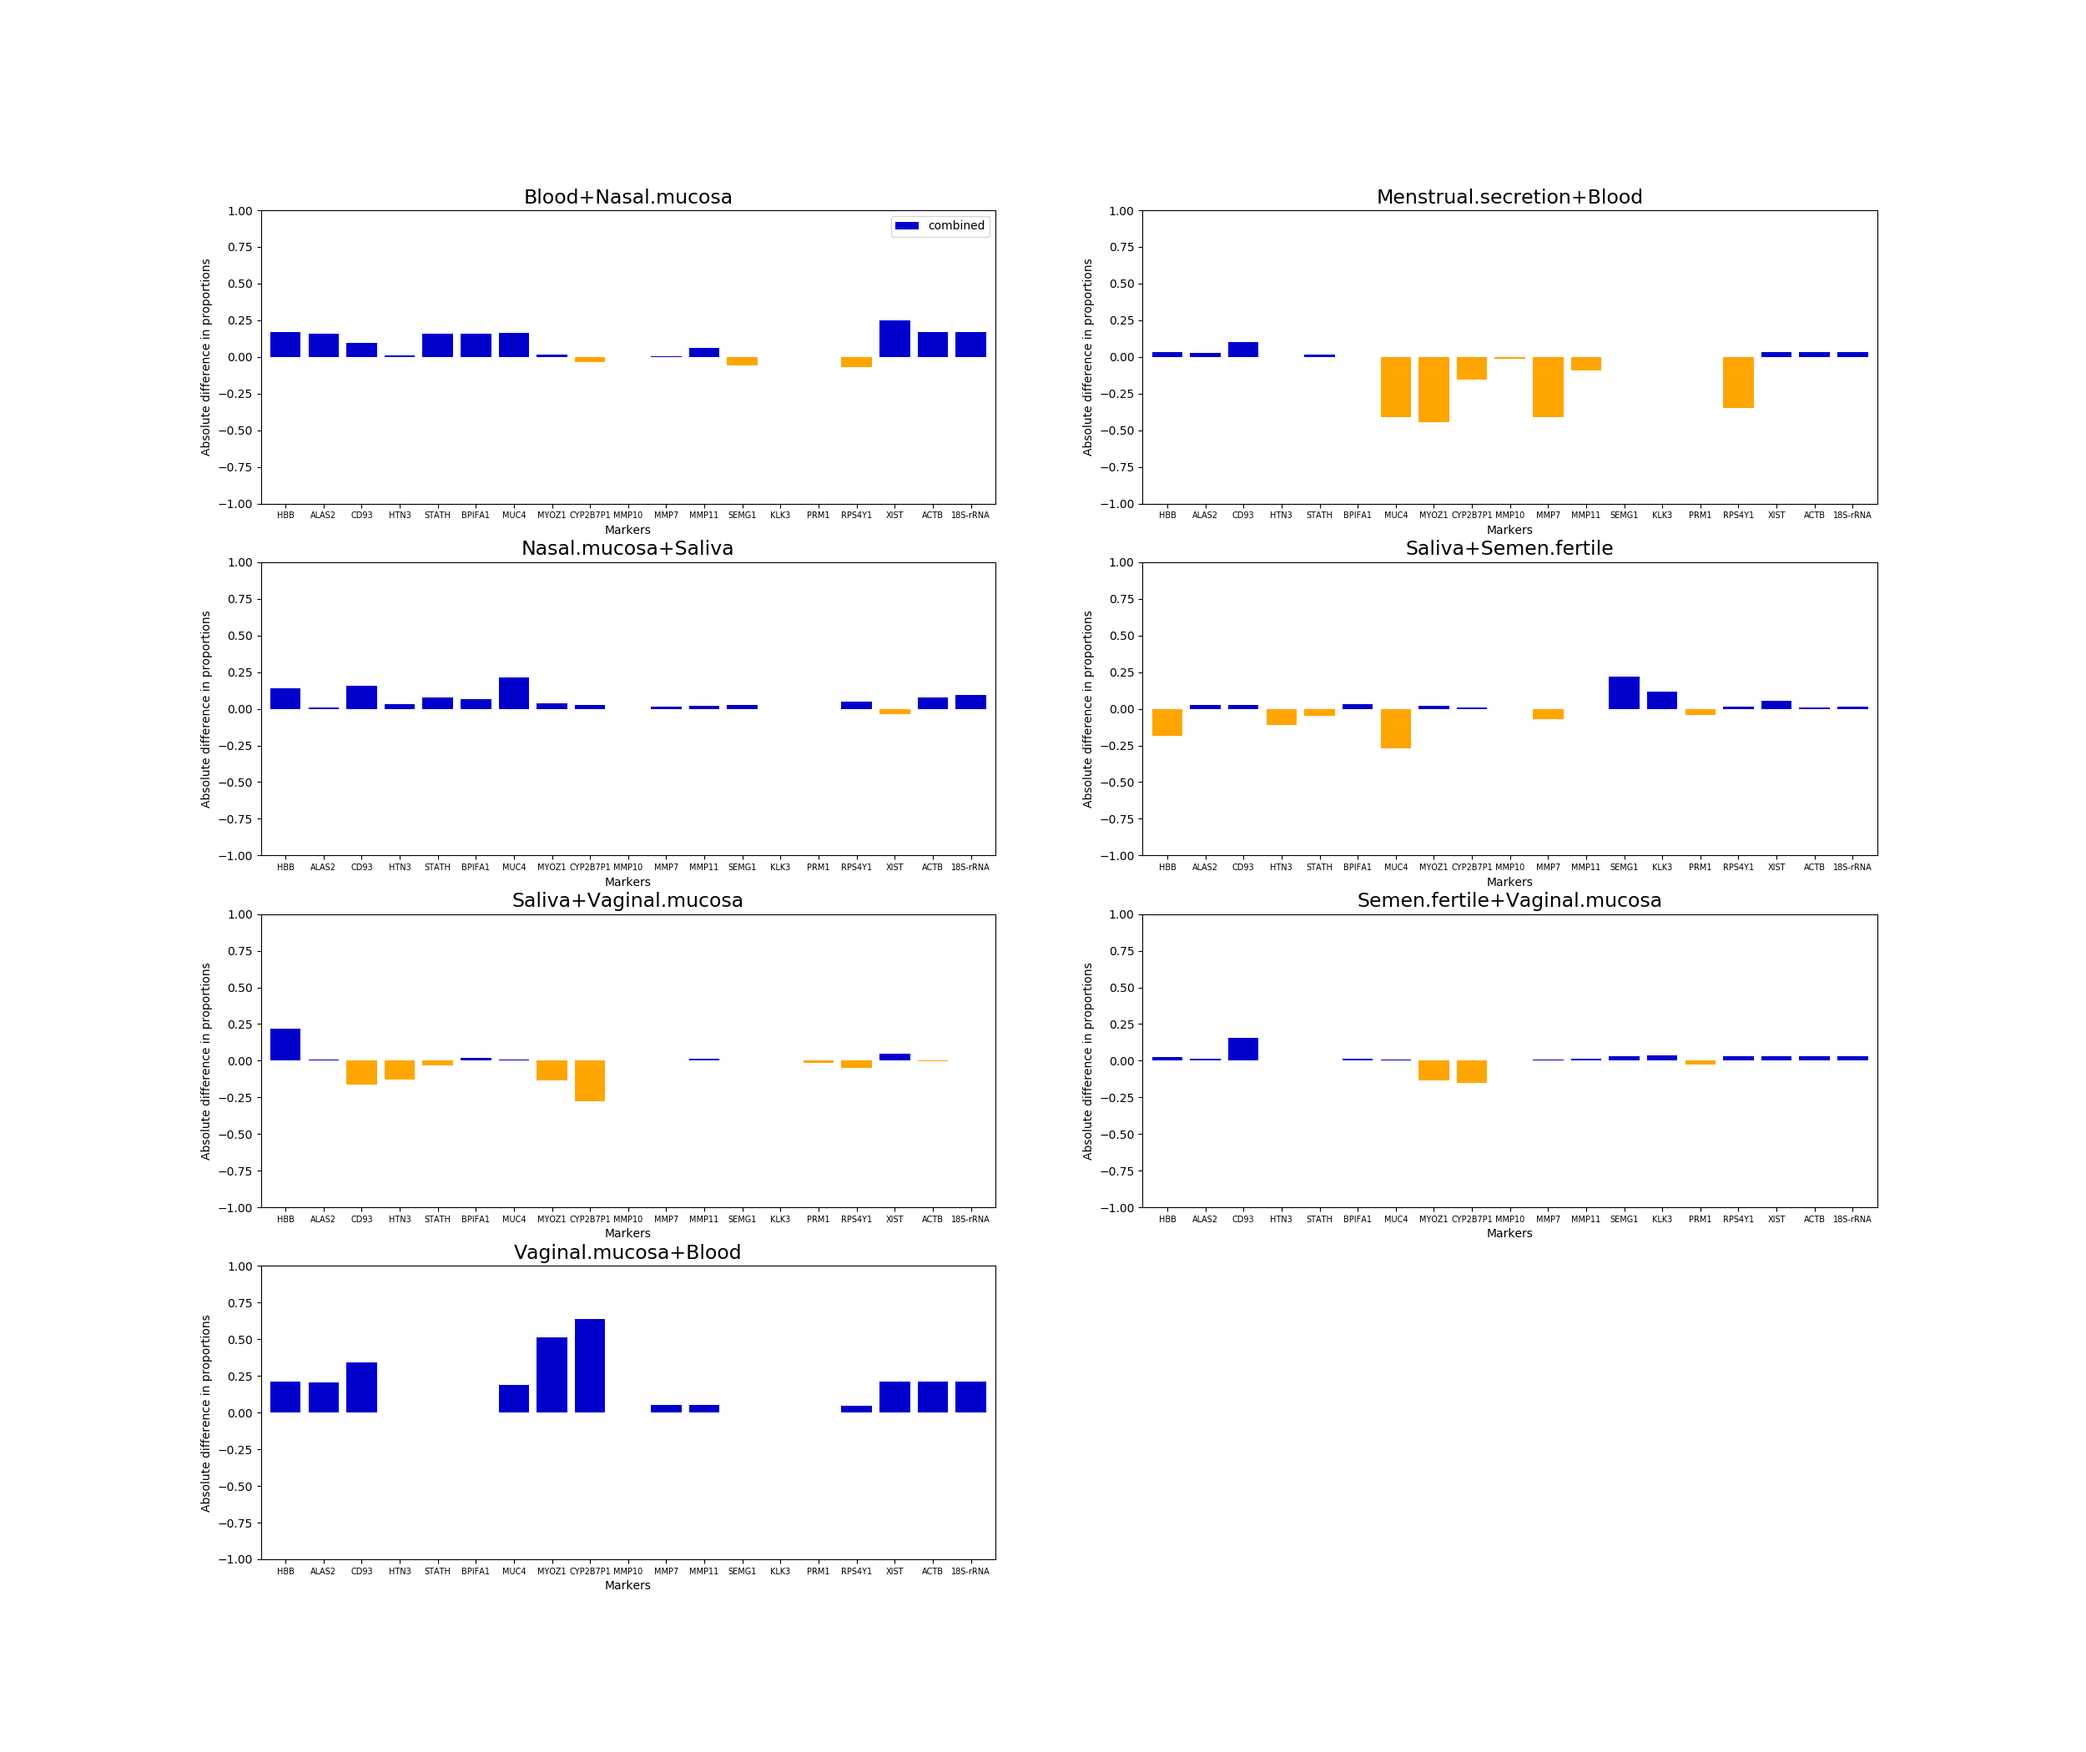
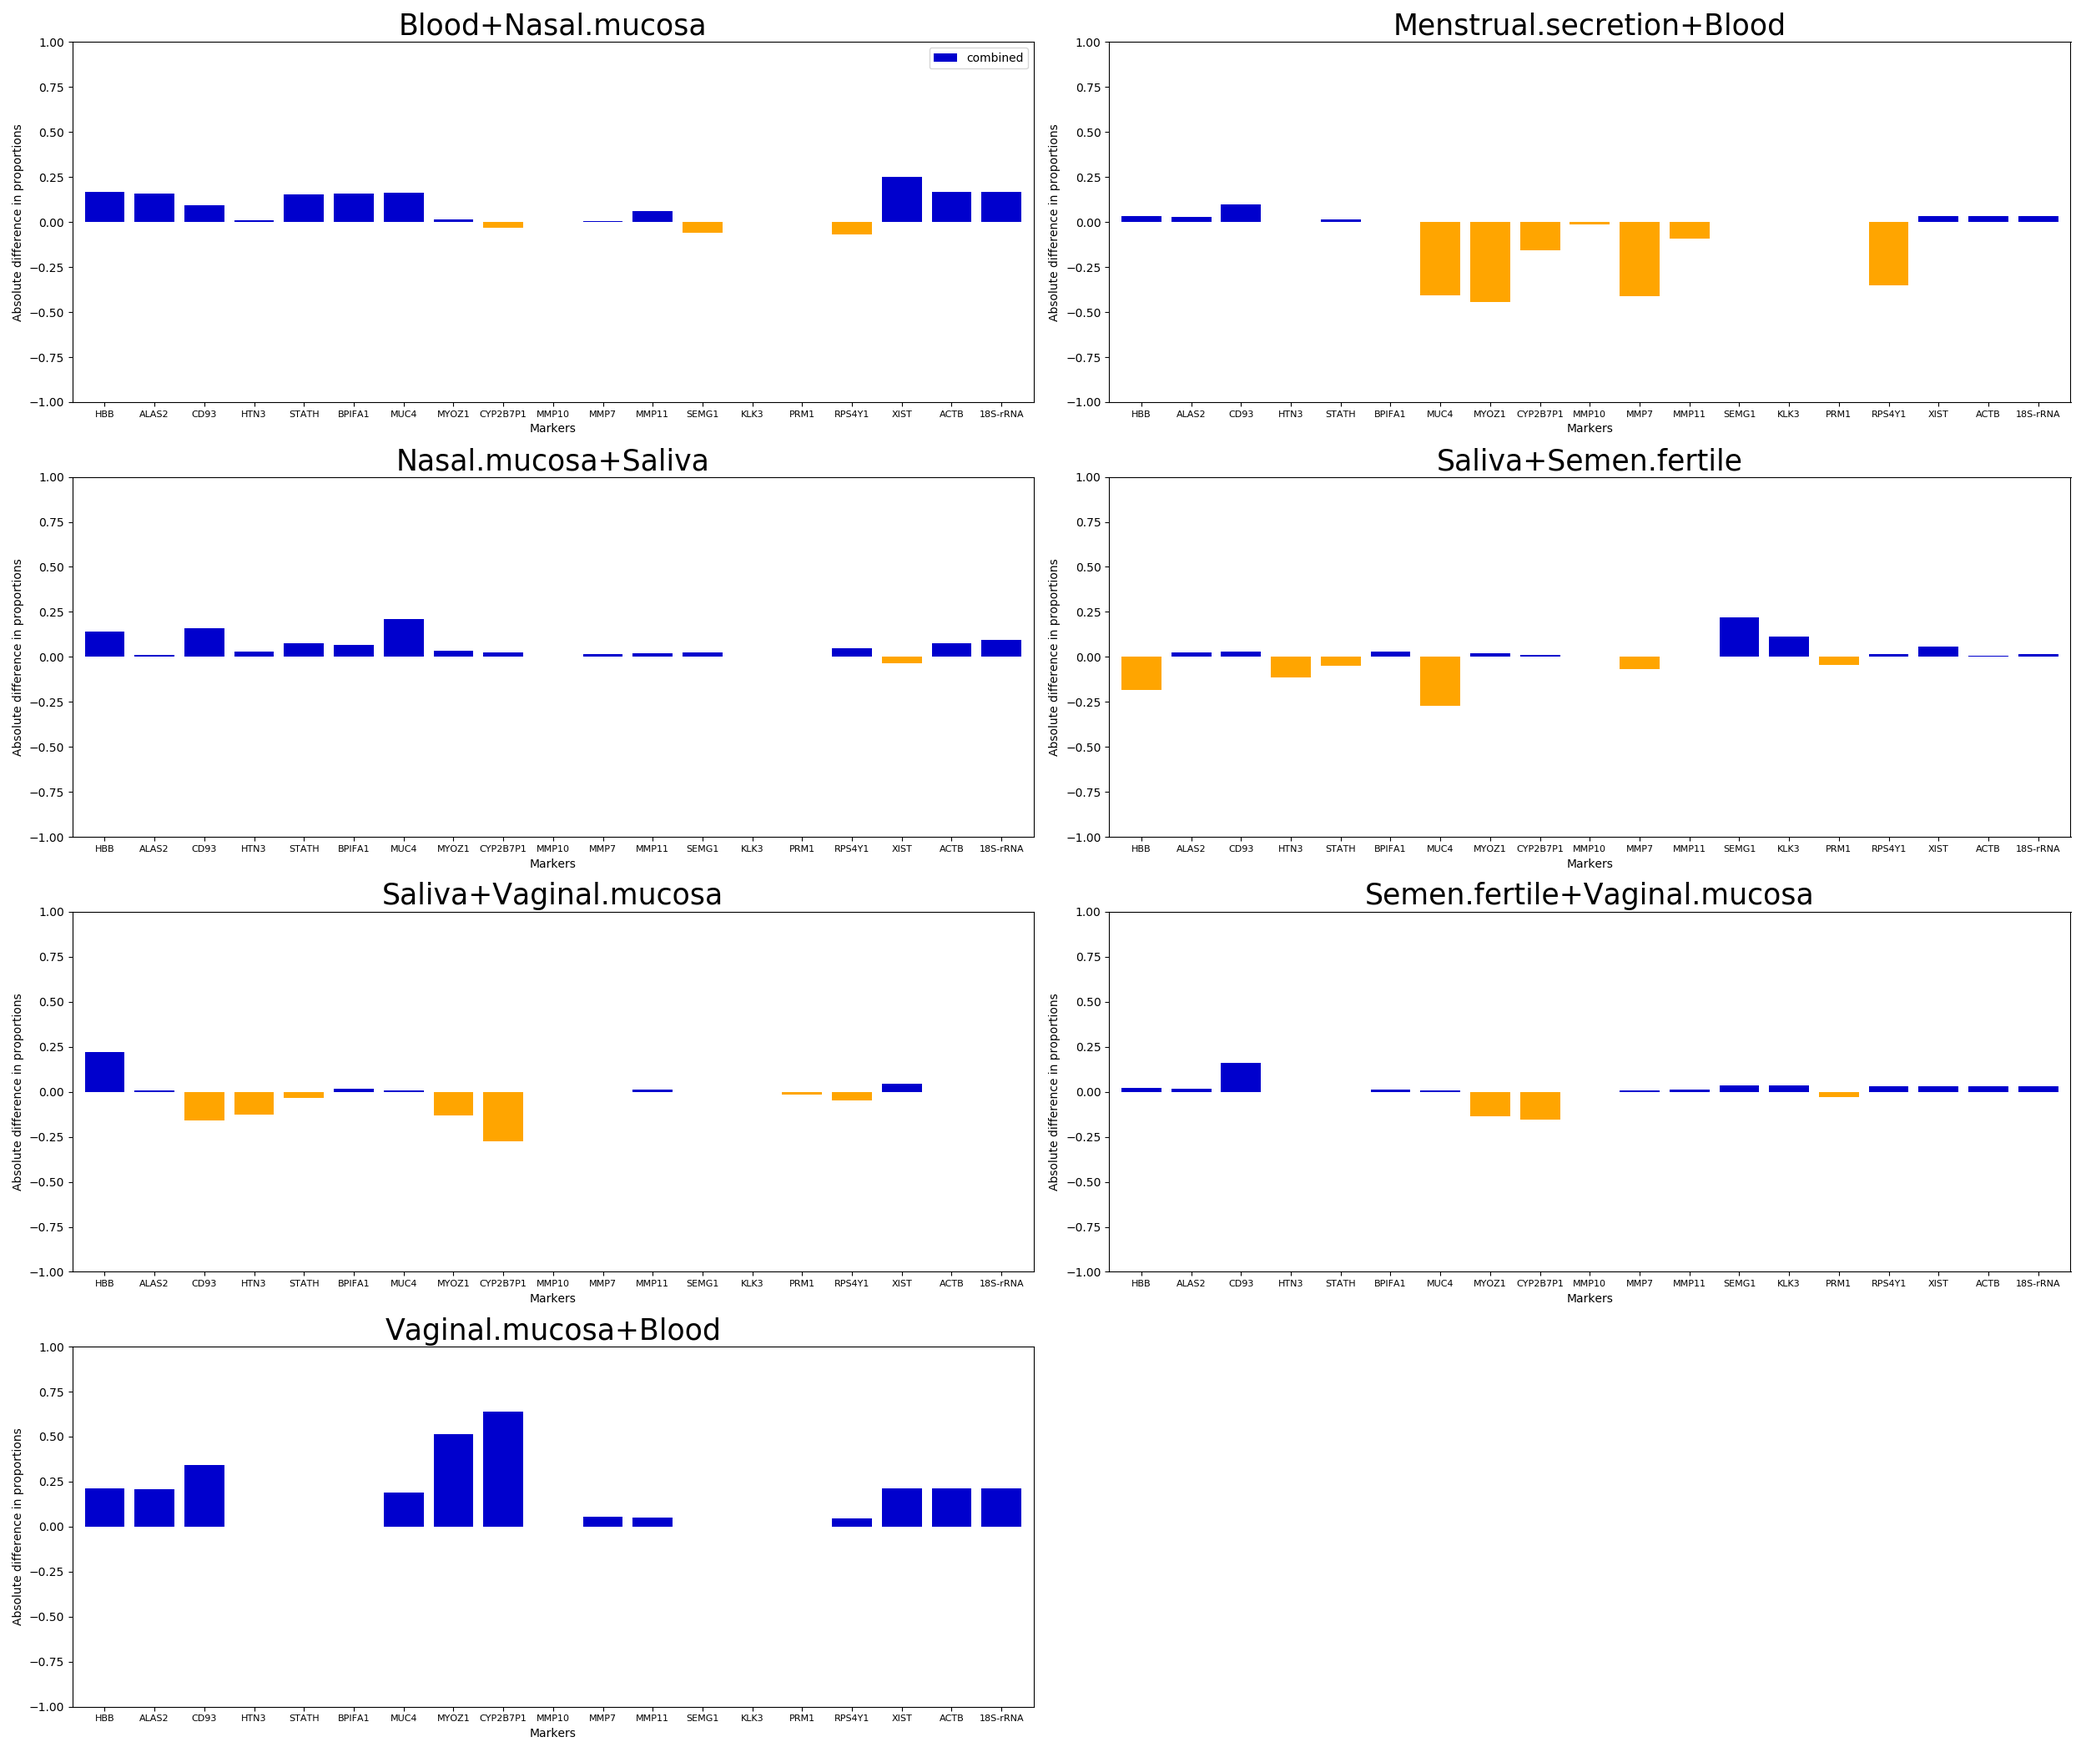
Minor changes in plots.

diff --git a/test_independence.py b/test_independence.py
@@ -142,12 +142,13 @@ def plot_proportions(names):
                                 yerr=errors[idx, :, :], capsize=4,
                                 color=['mediumblue', 'orange'])
         ax.set_xticklabels(list(df.columns))
-        ax.set_title(name, fontsize=17)
+        ax.set_title(name, fontsize=25)
         plt.ylabel("Proportion")
         plt.xlabel("Markers")
-        plt.xticks(fontsize=7, rotation=0)
+        plt.xticks(fontsize=8, rotation=0)
         plt.yticks(fontsize=10)
     #plt.show()
+    plt.tight_layout()
     plt.savefig("proportions")
     
     return errors
@@ -167,19 +168,20 @@ def plot_difference_in_proportions(names):
         df_proportions.plot.bar(width=0.8, ax=ax, legend=plot_legend[idx],
                                 color=color)
         ax.set_xticklabels(list(df.columns))
-        ax.set_title(name, fontsize=17)
+        ax.set_title(name, fontsize=25)
         plt.yticks(np.array([-1.0, -0.75, -0.5, -0.25, 0.0, 0.25, 0.5, 0.75, 1.0]))
         plt.ylabel("Absolute difference in proportions")
         plt.xlabel("Markers")
-        plt.xticks(fontsize=7, rotation=0)
+        plt.xticks(fontsize=8, rotation=0)
         plt.yticks(fontsize=10)
     #plt.show()
+    plt.tight_layout()
     plt.savefig('difference_proportions')
 
 
 if __name__ == '__main__':
     X_raw_singles, y_raw_singles, n_single_cell_types, n_features, classes_map, inv_classes_map, n_per_class = \
-        get_data_per_cell_type(filename='Datasets/Dataset_NFI_removed_saturated_rv.xlsx')
+        get_data_per_cell_type(filename='Datasets/Dataset_NFI_removed_degraded_rv.xlsx')
     X_mixtures, y_mixtures, y_mixtures_n_hot, test_map, inv_test_map = read_mixture_data(
         n_single_cell_types-1, n_features, classes_map)
     n_per_mixture_class = Counter(y_mixtures)
